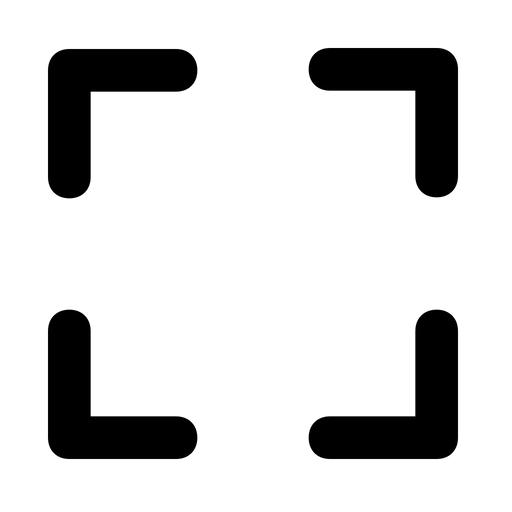
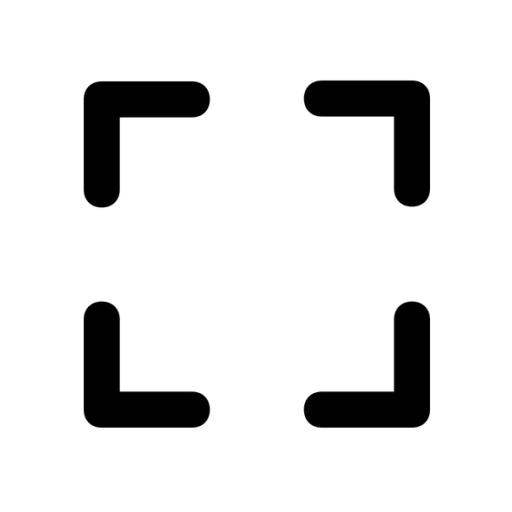
resize de las imagenes

diff --git a/config/styleMenu.css b/config/styleMenu.css
@@ -146,14 +146,14 @@
 
   #shrinkVer{
     background-image: url('https://Karlxz.github.io/img/shrinkArrow.png');
-    transform: rotate(90deg);
+    transform: rotate(45deg);
     background-size: cover;
     background-position: center;
   }
 
   #expandVer{
     background-image: url('https://Karlxz.github.io/img/expandArrow.png');
-    transform: rotate(90deg);
+    transform: rotate(45deg);
     background-size: cover;
     background-position: center;
   }
